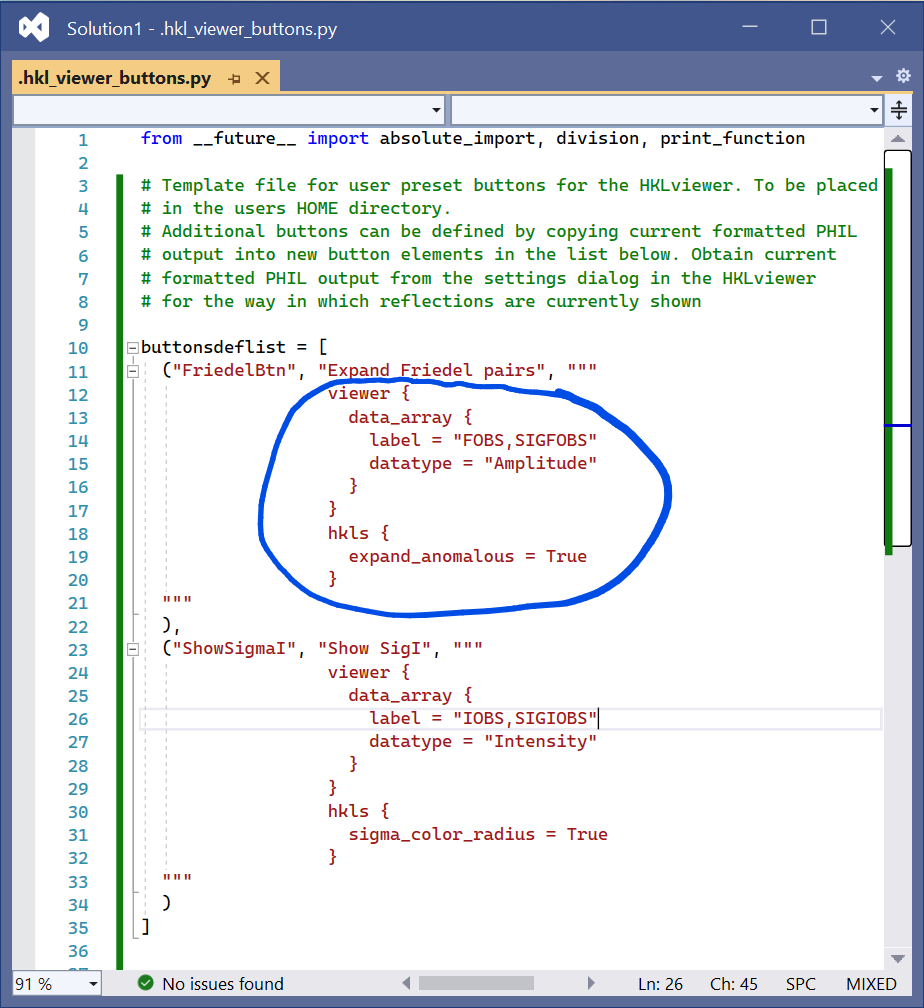
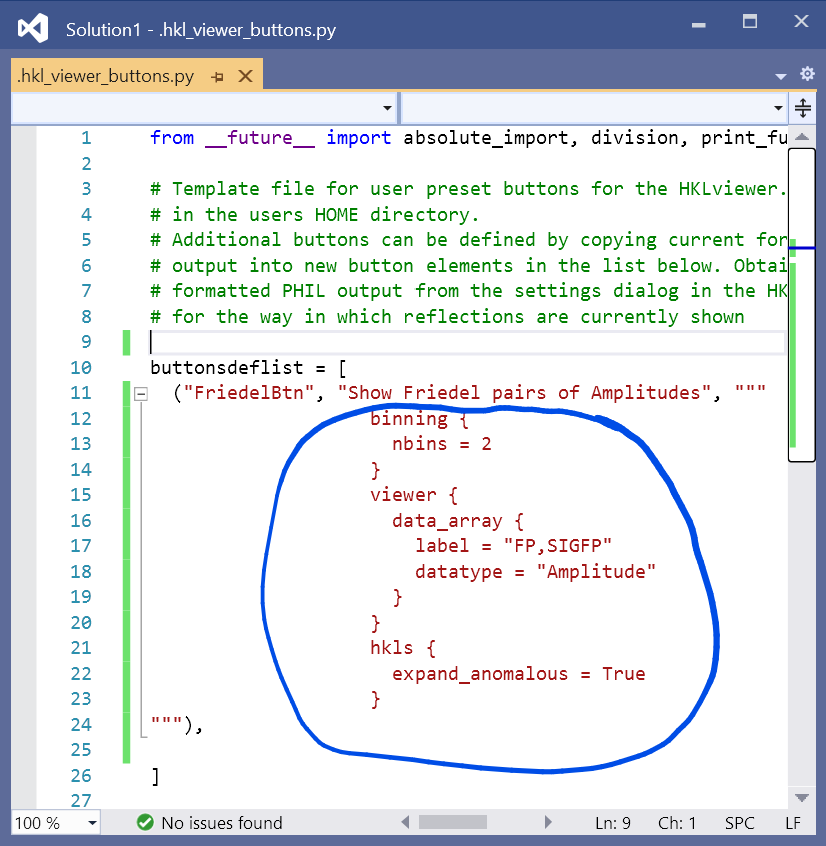
more updates

diff --git a/cctbx/templates/cctbx/documentation/doc_hklviewer.html b/cctbx/templates/cctbx/documentation/doc_hklviewer.html
@@ -200,7 +200,7 @@
 
     The PHIL parameter string must be enclosed with triple quotation marks to allow it spanning multiple lines.
     A unique stringID, say "FriedelBtn" as wells as a text string to display next to the button,
-    say "Expand Friedel pairs", must also be provided.
+    say "Show Friedel pairs of Amplitudes", must also be provided.
     <a name="hkl_viewer_buttons_py_file"></a>
     These two tuple elements come before the PHIL parameters string.
   </p>
@@ -211,8 +211,7 @@
   <p>
     When the HKLviewer is restarted with this file present as .hkl_viewer_buttons.py in the user's HOME directory
     buttons defined in this file will appear on the "Quick View" tab encircled with a green pen as
-    illustrated below. In this example, besides the "Expand Friedel pairs" button a "Show SigI" button
-    has also been defined and is shown as well.
+    illustrated below. 
   </p>
 
   <img style="max-width: 70%;" src="{% static 'cctbx/img/hklviewer/user_preset_btn_loaded.png' %}">
@@ -288,9 +287,9 @@
   tab for visualising the TNCS modulation through the TEPS data which is very sensitive.
   <br />
   Above is a snapshot of the buttons available (blue bubble) if there is TNCS in the dataset analysed by Xtricorder.
-  These are buttons are for visualising reflections with information content less than 0.35 bits, for
-  for visualising anisotropy and for visualising TNCS correction terms. Reflections with information less
-  than 0.35 bits roughly corresponds to I/SigI&lt;2 but reflections with low I/SigI values may occasionally have
+  These are buttons are for visualising reflections with information content less than 0.35 bits, 
+  for visualising anisotropy and TNCS correction terms. Reflections with information less
+  than 0.35 bits roughly corresponds to I/SigI&lt;1 but reflections with low I/SigI values may occasionally have
   high information content.
   A tutorial on how to inspect TNCS modulation in a dataset is given in the
   <a href="../tuto_hklviewer/#inspecting_TNCS_modulation">tutorial section</a>.
